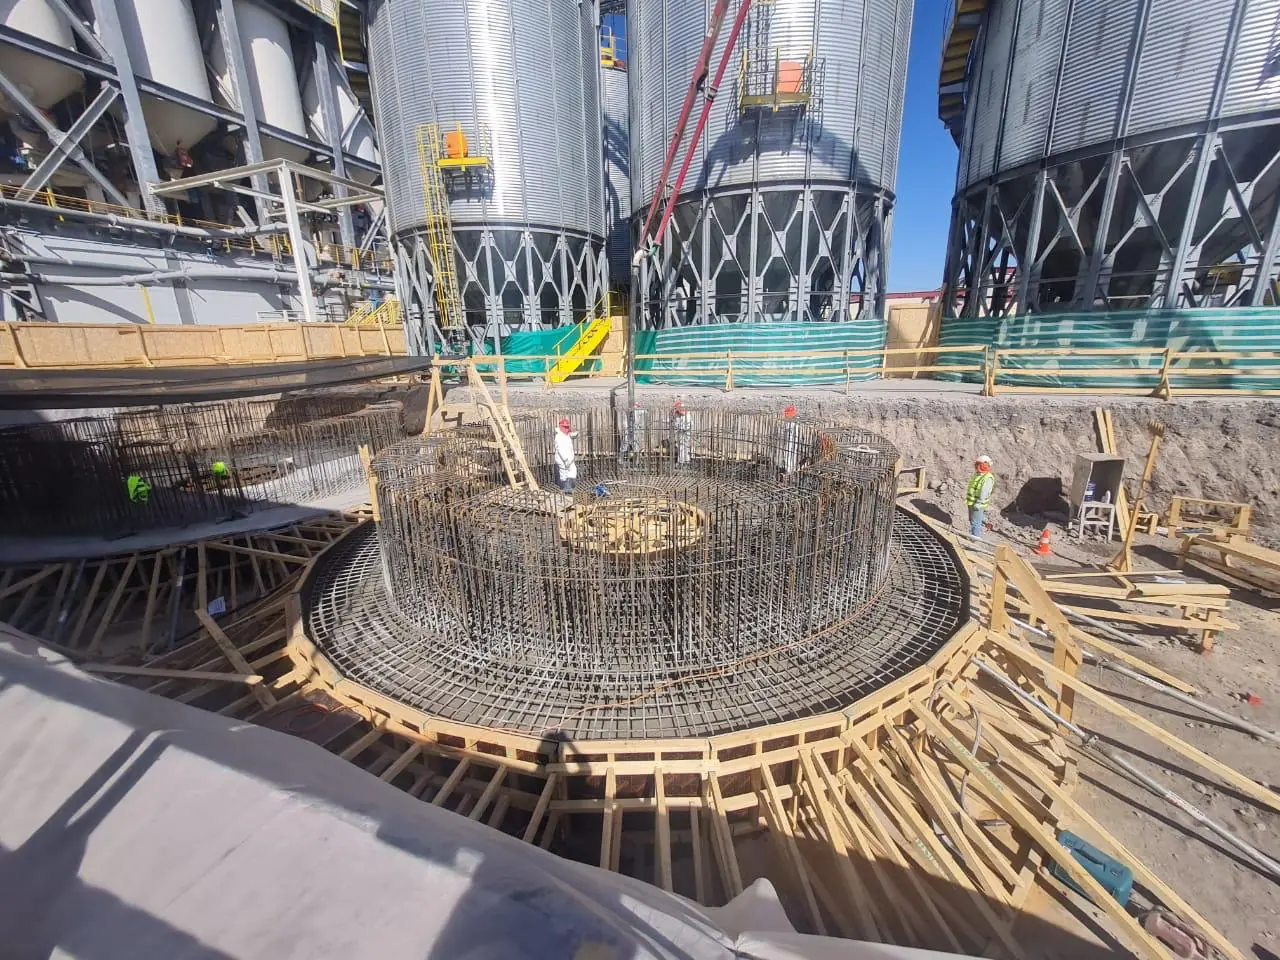
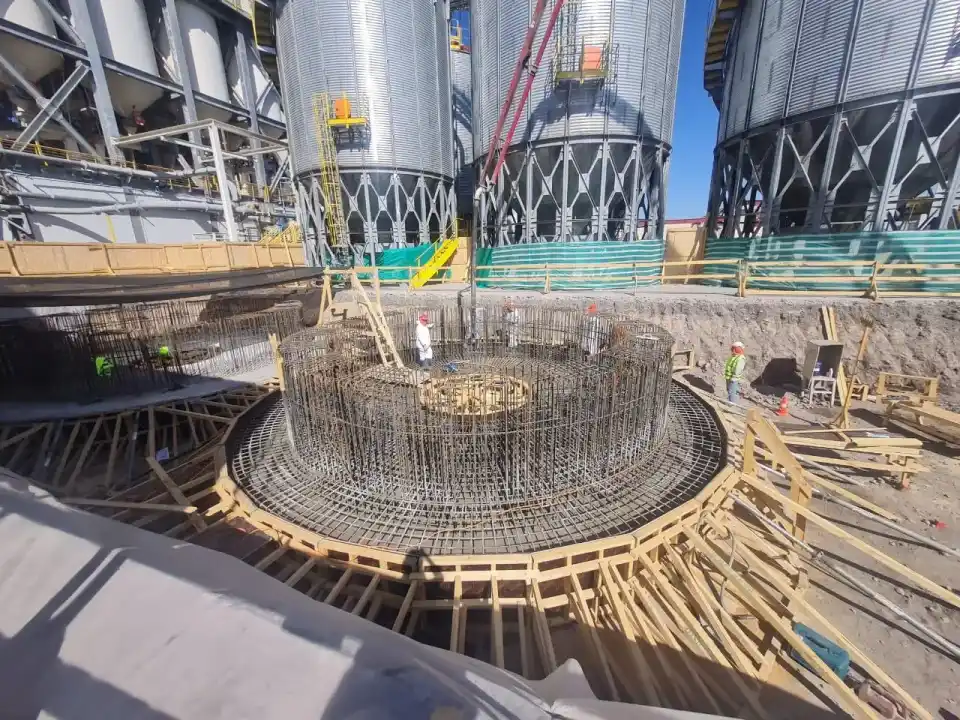
perf(constructora): hub con imágenes webp más livianas y sólo Geist precargada

Changed region(s): [[0.4375, 0.3361, 0.4688, 0.3972]]

diff --git a/apps/constructora/src/app/(grupo)/page.tsx b/apps/constructora/src/app/(grupo)/page.tsx
@@ -29,7 +29,7 @@ const EMPRESAS: {
     nombre: 'Barraca',
     texto: 'Fierro, perfiles, planchas y materiales. Local en Molina y tienda en línea.',
     ir: 'Ir a la tienda',
-    foto: '/images/grupo/barraca-fierros.jpg',
+    foto: '/images/grupo/barraca-fierros.webp',
     alt: 'Estantes con perfiles y tubos de fierro en la barraca',
   },
   {
@@ -62,18 +62,18 @@ export default function InicioGrupo() {
     <>
       <section className="h-portada" data-tema="marino">
         <div className="h-portada__fondo">
-          <Image src="/images/grupo/silos-general.webp" alt="" fill sizes="100vw" loading="eager" />
+          <Image src="/images/grupo/silos-general.webp" alt="" fill sizes="100vw" priority />
         </div>
         <div className="h-portada__ancho">
           <h1 className="g-display">Maquinaria, fierro y obra en el Maule</h1>
           <p className="h-portada__baja">Tres negocios JURMAQ, desde 2000.</p>
 
           <ul className="h-empresas" id="empresas">
-            {EMPRESAS.map((e, i) => (
+            {EMPRESAS.map((e) => (
               <li key={e.negocio} data-marca={e.negocio}>
                 <a className="h-empresa" href={NEGOCIOS[e.negocio].url}>
                   <div className="h-empresa__foto">
-                    <Image src={e.foto} alt={e.alt} width={800} height={600} sizes="(min-width: 768px) 34vw, 100vw" priority={i === 0} loading={i === 0 ? undefined : 'eager'} />
+                    <Image src={e.foto} alt={e.alt} width={800} height={600} sizes="(min-width: 768px) 34vw, 100vw" loading="eager" />
                   </div>
                   <div className="h-empresa__panel">
                     <span className="h-empresa__marca">JURMAQ</span>
@@ -103,7 +103,7 @@ export default function InicioGrupo() {
           <Link className="g-enlace" href="/nosotros">Conoce JURMAQ</Link>
         </div>
         <div className="h-grupo__foto">
-          <Image src="/images/grupo/barraca-frontal.jpg" alt="Frente del local JURMAQ en Av. Poniente 2157, Molina" width={1100} height={825} sizes="(min-width: 900px) 55vw, 100vw" />
+          <Image src="/images/grupo/barraca-frontal.webp" alt="Frente del local JURMAQ en Av. Poniente 2157, Molina" width={1100} height={825} sizes="(min-width: 900px) 55vw, 100vw" />
         </div>
       </section>
 

diff --git a/apps/constructora/src/app/layout.tsx b/apps/constructora/src/app/layout.tsx
@@ -34,12 +34,14 @@ const geist = Geist({
 
 const geistMono = Geist_Mono({
   variable: "--font-mono",
+  preload: false,
   subsets: ["latin"],
   display: "swap",
 });
 
 const newsreader = Newsreader({
   variable: "--font-serif",
+  preload: false,
   subsets: ["latin"],
   display: "swap",
   weight: ["400", "500", "600", "700"],
@@ -48,6 +50,7 @@ const newsreader = Newsreader({
 
 const bebasNeue = Bebas_Neue({
   variable: "--font-display",
+  preload: false,
   subsets: ["latin"],
   display: "swap",
   weight: ["400"], // Bebas Neue only ships in a single weight
@@ -59,6 +62,7 @@ const bebasNeue = Bebas_Neue({
 // con el acento "JURMAQ" en Bebas Neue. (Decisión del owner.)
 const oswald = Oswald({
   variable: "--font-heading",
+  preload: false,
   subsets: ["latin"],
   display: "swap",
   weight: ["500", "600", "700"],

diff --git a/apps/constructora/src/app/(grupo)/nosotros/page.tsx b/apps/constructora/src/app/(grupo)/nosotros/page.tsx
@@ -26,7 +26,7 @@ const FICHAS: { negocio: Negocio; titulo: string; texto: string; foto: string; a
     negocio: 'barraca',
     titulo: 'Barraca',
     texto: 'Fierros, perfiles, planchas y materiales de construcción, en local y tienda en línea.',
-    foto: '/images/grupo/barraca-frontal.jpg',
+    foto: '/images/grupo/barraca-frontal.webp',
     alt: 'Frente del local de la barraca en Av. Poniente 2157, Molina',
   },
   {
